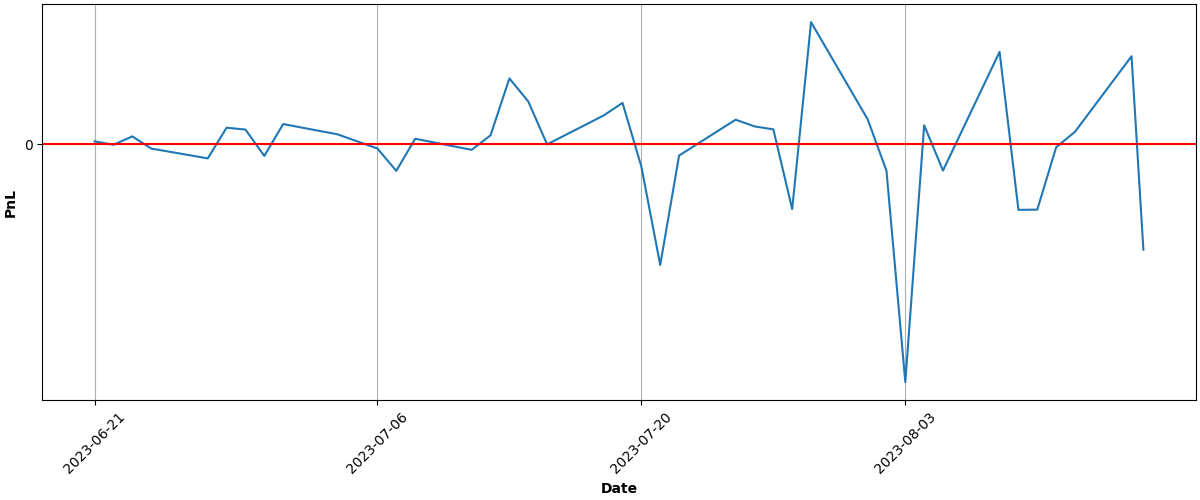
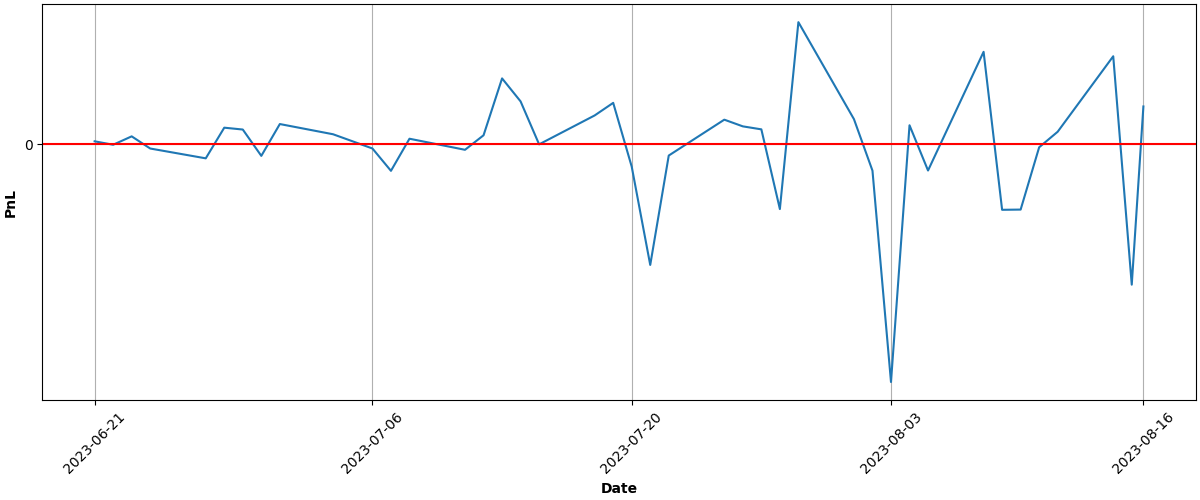
Automated Buy At Wed Aug 16 15:04:46 UTC 2023 Run ID 5880508628

diff --git a/README.md b/README.md
@@ -68,9 +68,9 @@ Results
 
 | Asset | Average Price | Current Price | ROI | 📈 |
 | --- | --- | --- | --- | --- |
-| FNGU | $188.109743677 | $171.37 | -8.90% | &#128308;&#128546; |
-| SVIX | $27.660847059 | $27.45 | -0.76% | &#128308;&#128546; |
-| **Total** |  |  | **-4.55%** | &#128308;&#128557; |
+| FNGU | $187.559789209 | $167.29 | -10.81% | &#128308;&#128546; |
+| SVIX | $27.660847059 | $28.02 | 1.30% | &#128994;&#128515; |
+| **Total** |  |  | **-4.41%** | &#128308;&#128557; |
 
 ### PnL over time (calculations may not be accurate):
 
@@ -81,6 +81,6 @@ Results
 ---
 
 
-Updated at 2023-08-15 15:04:43
+Updated at 2023-08-16 15:05:06
 
 
